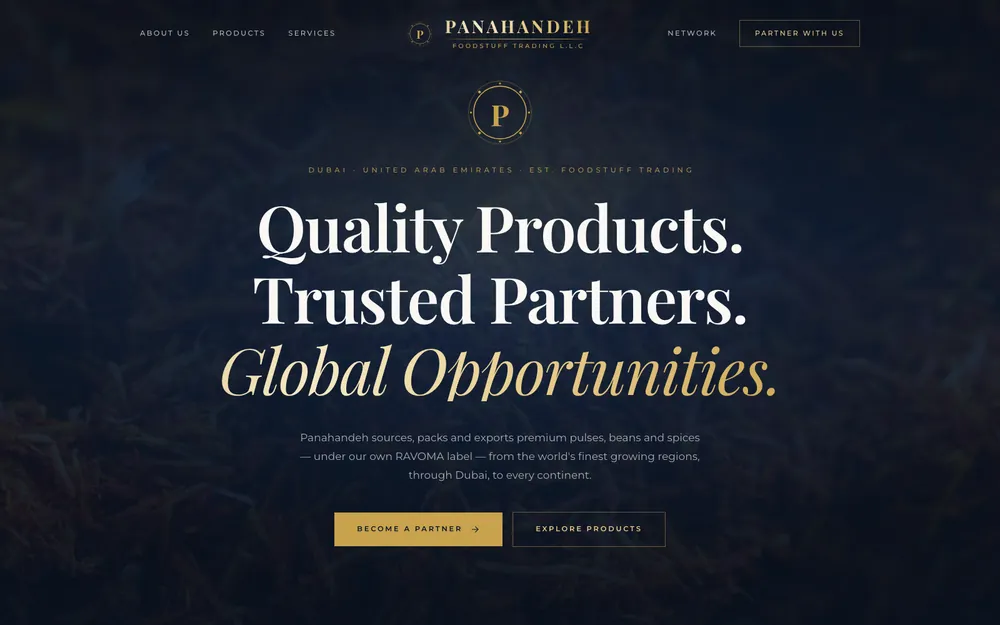
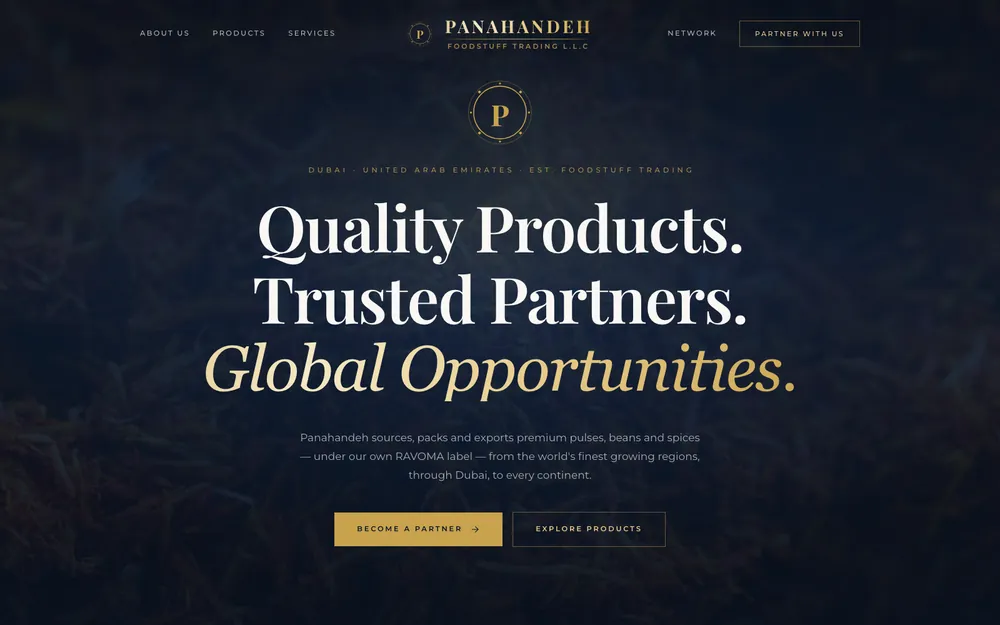
Fix clipped headline descenders and make every touch target 44px
The hero headline in design 01 was rendering "Obbortunities". The reveal
animation wraps each line in a .mask with overflow:hidden, and at
line-height 1.03 Playfair's descenders sit roughly 0.16em below the line
box, so both p's were being sliced off at the baseline. It was wrong at
every width, desktop included, and had been baked into the selector's
preview screenshot. The clip box is now padded and the extra pulled back
with a negative margin, so line spacing is unchanged; the reveal
transform moves from 112% to 145% so the line still starts fully hidden.

Touch ergonomics, measured under coarse-pointer emulation at 320, 360,
375, 390, 414, 430, 768, 820, 834 and 1024px on all four pages and in
both languages:

- Burgers, the language toggle, filter chips, nav and footer links and
  the version switcher all clear 44px in height. Everything sits in
  @media (pointer:coarse) blocks, so the mouse layout is untouched.
- Design 01's contact links keep an animated underline pinned 4px under
  the text, so their box is padded and the underline offset to match
  rather than stretched with line-height, which would have stranded it.
- Design 03 needs a tighter language toggle below 400px: three 44px
  targets plus the wordmark do not fit across a 360px phone, and the
  first pass at this pushed the burger off the edge.

Also from the same pass:

- The selector left the third card orphaned in the two-column range. It
[…]

diff --git a/v2/index.html b/v2/index.html
@@ -129,7 +129,7 @@ em.acc{ font-style:italic; color:var(--clay); font-weight:500 }
 .lockup{ display:flex; align-items:center; gap:12px; flex:none }
 .lockup svg{ width:30px; height:30px; color:var(--clay); flex:none }
 .lockup .nm{ display:block; font-family:Fraunces,serif; font-weight:700; font-size:18px; letter-spacing:.1em; line-height:1 }
-.lockup .sb{ display:block; font-family:'IBM Plex Mono',monospace; font-size:8.5px; letter-spacing:.22em; color:var(--muted); margin-top:5px; line-height:1 }
+.lockup .sb{ display:block; font-family:'IBM Plex Mono',monospace; font-size:10px; letter-spacing:.2em; color:var(--muted); margin-top:5px; line-height:1 }
 @media(max-width:420px){ .lockup .sb{ display:none } .lockup .nm{ font-size:16px } }
 .nav{ display:none; gap:34px; font-size:13.5px; font-weight:500; letter-spacing:.01em }
 .nav a{ position:relative; padding:4px 0; color:var(--body) }
@@ -155,7 +155,8 @@ em.acc{ font-style:italic; color:var(--clay); font-weight:500 }
 .hero .lede{ margin:28px 0 0; max-width:46ch }
 .hero-cta{ display:flex; flex-wrap:wrap; gap:14px; margin-top:36px }
 .hero-figure{ position:relative }
-.frame{ position:relative; overflow:hidden; background:var(--bone); aspect-ratio:4/5 }
+.frame{ position:relative; overflow:hidden; background:var(--bone); aspect-ratio:3/2 }
+@media(min-width:1024px){ .frame{ aspect-ratio:4/5 } }
 .frame img{ position:absolute; inset:0; width:100%; height:100%; object-fit:cover }
 .frame::after{ content:''; position:absolute; inset:0; box-shadow:inset 0 0 0 1px rgba(21,21,15,.1) }
 .spec-card{
@@ -163,7 +164,7 @@ em.acc{ font-style:italic; color:var(--clay); font-weight:500 }
   padding:18px 20px; min-width:212px; box-shadow:0 16px 40px -22px rgba(21,21,15,.4);
 }
 @media(min-width:1024px){ .spec-card{ left:-34px; bottom:-26px } }
-.spec-card .k{ font-family:'IBM Plex Mono',monospace; font-size:10px; letter-spacing:.18em; text-transform:uppercase; color:var(--muted) }
+.spec-card .k{ font-family:'IBM Plex Mono',monospace; font-size:10.5px; letter-spacing:.18em; text-transform:uppercase; color:var(--muted) }
 .spec-card .v{ font-family:Fraunces,serif; font-size:24px; font-weight:600; margin-top:6px; line-height:1 }
 .spec-card .r{ display:flex; justify-content:space-between; gap:22px; padding-top:12px; margin-top:12px; border-top:1px solid var(--line-2);
   font-family:'IBM Plex Mono',monospace; font-size:11px; color:var(--body) }
@@ -226,7 +227,7 @@ em.acc{ font-style:italic; color:var(--clay); font-weight:500 }
 
 /* cursor-following preview (pointer devices only) */
 .preview{
-  position:fixed; z-index:80; width:190px; aspect-ratio:4/5; pointer-events:none;
+  position:fixed; top:-9999px; left:-9999px; z-index:80; width:190px; aspect-ratio:4/5; pointer-events:none;
   opacity:0; transform:translate(-50%,-50%) scale(.94); transition:opacity .3s var(--ease),transform .3s var(--ease);
   box-shadow:0 24px 60px -24px rgba(21,21,15,.6); overflow:hidden; background:var(--bone);
 }
@@ -333,6 +334,17 @@ em.acc{ font-style:italic; color:var(--clay); font-weight:500 }
 .vsw a{ font-family:'IBM Plex Mono',monospace; font-size:10px; letter-spacing:.12em; padding:7px 10px; color:rgba(251,249,244,.6); background:var(--ink) }
 .vsw a[aria-current]{ background:var(--paper); color:var(--ink) }
 .vsw a:hover{ color:var(--paper) }
+
+/* ---------- touch ergonomics ---------- */
+@media (pointer:coarse){
+  .burger{ min-height:44px; min-width:44px; padding:14px 11px; margin-inline-end:-11px }
+  .lockup{ min-height:44px }
+  .chip{ min-height:44px }
+  .vsw a{ min-width:46px; min-height:46px; display:flex; align-items:center; justify-content:center }
+  .ftr ul a,.nav a,.cdetails a.v{ display:inline-block; min-height:44px; line-height:44px }
+  .ftr ul{ gap:2px }
+  .row{ padding-block:26px }
+}
 </style>
 </head>
 
@@ -719,7 +731,7 @@ const ORIGINS = [
   const pv = $('#preview'), pvImg = $('#previewImg');
   if (matchMedia('(hover:hover) and (pointer:fine)').matches && !reduce) {
     let raf = 0, x = 0, y = 0;
-    const move = e => { x = e.clientX; y = e.clientY;
+    const move = e => { x = e.clientX; y = e.clientY; pv.style.top = pv.style.left = '0px';
       if (!raf) raf = requestAnimationFrame(() => { pv.style.transform =
         `translate(${x}px, ${y}px) translate(-50%,-50%) scale(${pv.classList.contains('on') ? 1 : .94})`; raf = 0; }); };
     $$('.row', cat).forEach(r => {

diff --git a/v3/index.html b/v3/index.html
@@ -137,7 +137,7 @@ html[lang="fa"] .top-in{ letter-spacing:0; text-transform:none; font-size:12.5px
 .lock{ display:flex; align-items:center; gap:12px; flex:none }
 .lock svg{ width:34px; height:34px; color:var(--saffron); flex:none }
 .lock b{ display:block; font-family:'Cormorant Garamond',serif; font-size:22px; font-weight:700; letter-spacing:.13em; line-height:1 }
-.lock small{ display:block; font-size:8.5px; letter-spacing:.26em; color:var(--muted); margin-top:5px; line-height:1 }
+.lock small{ display:block; font-size:10px; letter-spacing:.22em; color:var(--muted); margin-top:5px; line-height:1 }
 html[lang="fa"] .lock small{ letter-spacing:0; font-size:10px }
 @media(max-width:430px){ .lock small{ display:none } .lock b{ font-size:19px } }
 /* below 400px the lockup + language toggle + burger no longer share one line */
@@ -149,6 +149,14 @@ html[lang="fa"] .lock small{ letter-spacing:0; font-size:10px }
   .lang button{ padding:7px 8px; font-size:10.5px }
 }
 @media(max-width:345px){ .lock b{ display:none } }
+/* a 44px touch target on every control does not fit beside the wordmark on a 360px phone */
+@media (pointer:coarse) and (max-width:400px){
+  .lang button{ padding-inline:7px; font-size:10px }
+  .lock b{ font-size:15.5px; letter-spacing:.07em }
+  .lock svg{ width:26px; height:26px }
+  .lock{ gap:8px }
+  .hdr-end{ gap:6px }
+}
 .nav{ display:none; gap:30px; font-size:14px; font-weight:400 }
 .nav a{ position:relative; padding:5px 0; color:var(--body) }
 .nav a::after{ content:''; position:absolute; inset-inline:0; bottom:0; height:1px; background:var(--saffron); transform:scaleX(0); transition:transform .38s var(--ease) }
@@ -328,6 +336,16 @@ html[lang="fa"] .fbase{ letter-spacing:0; text-transform:none; font-size:13px }
 .vsw a{ font-size:10.5px; letter-spacing:.12em; padding:7px 10px; color:rgba(247,240,225,.6) }
 .vsw a[aria-current]{ background:var(--plaster); color:var(--lapis) }
 .vsw a:hover{ color:var(--plaster) }
+
+/* ---------- touch ergonomics ---------- */
+@media (pointer:coarse){
+  .burger{ min-height:44px; min-width:44px; padding:14px 11px; margin-inline-end:-11px }
+  .lock{ min-height:44px }
+  .lang button{ min-height:44px; padding-inline:14px }
+  .vsw a{ min-width:46px; min-height:46px; display:flex; align-items:center; justify-content:center }
+  .ftr ul a,.nav a,.cinfo a.v{ display:inline-block; min-height:44px; line-height:44px }
+  .ftr ul{ gap:2px }
+}
 </style>
 </head>
 

diff --git a/v1/index.html b/v1/index.html
@@ -66,6 +66,20 @@ body{ background:#040D1B; overflow-x:hidden }
 .vsw a[aria-current]{ background:#FBF9F5; color:#0A1D37 }
 .vsw a:hover{ color:#C9A24B }
 
+/* ---------- touch ergonomics ---------- */
+@media (pointer:coarse){
+  #burger.-mr-2{ min-height:44px; min-width:44px; padding:14px 13px; margin-right:-13px }
+  .vsw a{ min-width:46px; min-height:46px; display:flex; align-items:center; justify-content:center }
+  footer a.ulink,#menu a.mob,header a.ulink{ display:inline-block; min-height:44px; line-height:44px }
+  header a.btn-ghost{ min-height:44px }
+  /* the contact links carry an animated underline pinned 4px under the text: pad the box out
+     to 44px and shift the underline by the same amount so it stays put relative to the text */
+  main a.ulink{ padding-block:6px }
+  main a.ulink::after{ bottom:2px }
+  header a.group{ min-height:44px }
+  footer li{ line-height:1.2 }
+}
+
 /* ---------- gold foil (mouse-reactive) ---------- */
 .foil{
   background-image:linear-gradient(100deg,#8C6B22 0%,#C9A24B 18%,#F6E9C4 40%,#E8CC8A 52%,#C9A24B 68%,#8C6B22 100%);
@@ -115,8 +129,8 @@ body{ background:#040D1B; overflow-x:hidden }
 .rule-gold{ background:linear-gradient(90deg,transparent,#C9A24B 18%,#F3E1B0 50%,#C9A24B 82%,transparent) }
 
 /* ---------- reveal primitives ---------- */
-.mask{ display:block; overflow:hidden; padding-bottom:.08em }
-.mask>span{ display:block; transform:translateY(112%); opacity:0;
+.mask{ display:block; overflow:hidden; padding-bottom:.24em; margin-bottom:-.16em }
+.mask>span{ display:block; transform:translateY(145%); opacity:0;
   transition:transform 1.05s var(--ease), opacity .9s var(--ease); transition-delay:var(--d,0s) }
 .in .mask>span{ transform:none; opacity:1 }
 
@@ -269,7 +283,7 @@ a:focus-visible,button:focus-visible,input:focus-visible,select:focus-visible,te
       <span class="flex flex-col items-center">
       <span class="wm font-display text-[21px] sm:text-[23px] lg:text-[25px] xl:text-[28px] tracking-[.15em] pl-[.15em] foil font-bold">PANAHANDEH</span>
       <span class="mt-1.5 h-px w-full rule-gold opacity-70"></span>
-      <span class="hidden sm:block mt-1.5 text-[9px] lg:text-[10px] tracking-[.3em] pl-[.3em] text-gold/80 font-semibold">FOODSTUFF TRADING L.L.C</span>
+      <span class="hidden sm:block mt-1.5 text-[10px] lg:text-[11px] tracking-[.28em] pl-[.28em] text-gold/80 font-semibold">FOODSTUFF TRADING L.L.C</span>
       </span>
     </a>
 

diff --git a/index.html b/index.html
@@ -83,7 +83,7 @@ a{ color:inherit; text-decoration:none }
 }
 .mark hr{ width:100%; height:1px; border:0; margin:9px 0 0;
   background:linear-gradient(90deg,transparent,var(--gold),transparent); opacity:.75 }
-.mark small{ margin-top:9px; font-size:9.5px; letter-spacing:.3em; padding-left:.3em; color:var(--gold); font-weight:600 }
+.mark small{ margin-top:9px; font-size:10.5px; letter-spacing:.28em; padding-left:.3em; color:var(--gold); font-weight:600 }
 @media(min-width:768px){ .mark small{ font-size:10.5px } }
 
 .mast h1{
@@ -108,6 +108,12 @@ a{ color:inherit; text-decoration:none }
   grid-template-columns:1fr;
 }
 @media(min-width:760px){ .grid3{ grid-template-columns:repeat(2,1fr); gap:22px } }
+/* two columns leaves the third card orphaned, so let it run the full width in that range only */
+@media(min-width:760px) and (max-width:1099px){
+  .grid3 > :last-child{ grid-column:1/-1; flex-direction:row }
+  .grid3 > :last-child .shot{ flex:0 0 44%; aspect-ratio:auto; border-bottom:0; border-inline-end:1px solid var(--line) }
+  .grid3 > :last-child .body{ flex:1 1 auto }
+}
 @media(min-width:1100px){ .grid3{ grid-template-columns:repeat(3,1fr); gap:26px } }
 
 .card{
@@ -158,6 +164,9 @@ a{ color:inherit; text-decoration:none }
 .card:hover .open svg{ transform:translate(3px,-3px) }
 
 /* footer -------------------------------------------------------- */
+@media (pointer:coarse){
+  .card{ min-height:44px }
+}
 .foot{
   margin-top:auto; border-top:1px solid rgba(201,162,75,.14);
   padding:20px 0 26px; display:flex; flex-wrap:wrap; gap:8px 24px; justify-content:space-between;

diff --git a/README.md b/README.md
@@ -226,8 +226,17 @@ On the selector, the warm radial behind the masthead lifts the background enough
 partial opacity stops clearing 4.5:1, so gold runs at full strength there; contrast was measured
 from the render with the text hidden, not assumed from the token values.
 
-Verified for horizontal overflow at 320, 360, 390, 414, 768, 1024, 1280 and 1440px — including
-design 03 in right-to-left and the selector. No page scroll at any width.
+Verified for horizontal overflow at 320, 360, 375, 390, 414, 430, 768, 820, 834, 1024, 1280 and
+1440px — including design 03 in right-to-left and the selector. No page scroll at any width.
+
+**Touch.** Every page was re-measured under coarse-pointer emulation, and every interactive
+control clears 44px in height at every width: burgers, the language toggle, filter chips, nav and
+footer links, and the version switcher. The rules live in `@media (pointer:coarse)` blocks so a
+mouse-driven layout is untouched. Two of them are worth knowing about — design 01's contact links
+carry an animated underline pinned 4px under the text, so the box is padded and the underline
+offset by the same amount rather than stretched with `line-height`; and design 03's language
+toggle has a tighter variant below 400px, because three 44px targets plus the wordmark do not fit
+across a 360px phone otherwise.
 
 ---
 
